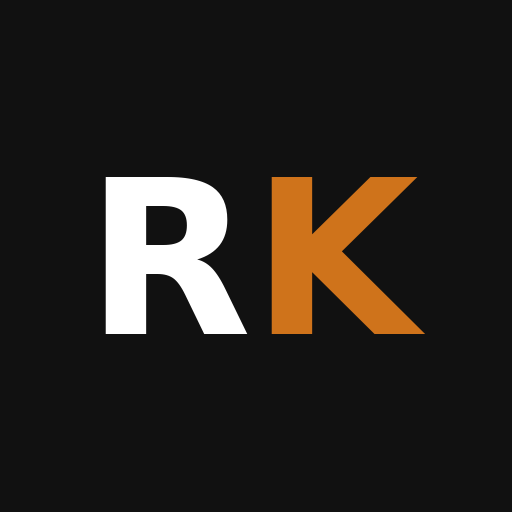
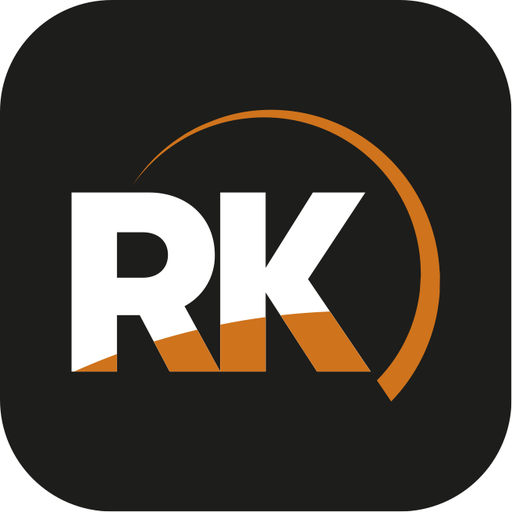
Todos los iconos de la app pasan al isotipo de marca
El icono de la app seguía siendo una RK plana que dibujé yo, sin el arco, así
que no cuadraba con el de las notificaciones. Ahora todos salen del isotipo del
logo de verdad, extraído del SVG de marca.

No vale un único archivo, porque cada destino tiene sus reglas:

- El maskable de Android pasa a ser un archivo propio, a sangre y con la marca
  al 60%: el sistema recorta un círculo del 80% del lado y le da la forma que
  quiera. Antes se reutilizaba ahí el icono redondeado, que dentro del círculo
  se veía como un recuadro flotando.
- El de iOS también va a sangre: iOS aplica su propia máscara, y sobre unas
  esquinas ya redondeadas salían cuatro sombras oscuras.
- El favicon pasa a ser el isotipo en vector. Era el logo completo, y a 16 px
  en una pestaña 'PALANCA FONTESTAD BY REALMARK INMOBILIARIA' es una mancha.
- La notificación vuelve a usar icon-192: una sola marca, un solo archivo, en
  vez de la misma imagen duplicada con dos nombres.

npm run iconos los regenera todos desde el logo. Comprobado cada variante donde
importa: el maskable entero dentro del círculo, y el badge legible a 24 px.

A quien ya tenga la app instalada le cambiará el icono del móvil.

diff --git a/vite.config.js b/vite.config.js
@@ -18,7 +18,7 @@ export default defineConfig({
          worker viejo no les llegaba a servir. Y el autoguardado ya cubre el
          riesgo original: la recarga dispara `pagehide`, que vuelca la ficha. */
       registerType: "autoUpdate",
-      includeAssets: ["icon-192.png", "icon-512.png", "apple-touch-icon.png"],
+      includeAssets: ["icon-192.png", "icon-512.png", "icon-maskable-512.png", "apple-touch-icon.png", "isotipo.svg"],
       manifest: {
         name: "Ficha de Captación · RK Palanca",
         short_name: "Captación",
@@ -33,7 +33,11 @@ export default defineConfig({
         icons: [
           { src: "icon-192.png", sizes: "192x192", type: "image/png" },
           { src: "icon-512.png", sizes: "512x512", type: "image/png" },
-          { src: "icon-512.png", sizes: "512x512", type: "image/png", purpose: "maskable" }
+          /* El maskable es un archivo aparte, a sangre y con la marca más
+             pequeña: Android recorta un círculo del 80% y le da la forma que
+             quiera. Reutilizar aquí el icono redondeado dejaba un recuadro
+             flotando dentro del círculo. */
+          { src: "icon-maskable-512.png", sizes: "512x512", type: "image/png", purpose: "maskable" }
         ]
       },
       workbox: {

diff --git a/index.html b/index.html
@@ -9,7 +9,9 @@
     <meta name="apple-mobile-web-app-capable" content="yes" />
     <meta name="apple-mobile-web-app-status-bar-style" content="default" />
     <meta name="apple-mobile-web-app-title" content="Captación" />
-    <link rel="icon" type="image/svg+xml" href="/logos/logo-vertical-tinta.svg" />
+    <!-- El isotipo, no el logo entero: a 16 px en una pestaña, el nombre
+         completo de la empresa es una mancha gris. -->
+    <link rel="icon" type="image/svg+xml" href="/isotipo.svg" />
     <link rel="apple-touch-icon" href="/icon-192.png" />
     <link rel="preconnect" href="https://fonts.googleapis.com" />
     <link rel="preconnect" href="https://fonts.gstatic.com" crossorigin />

diff --git a/public/push-sw.js b/public/push-sw.js
@@ -18,7 +18,7 @@ self.addEventListener("push", (evento) => {
       /* El isotipo de la empresa sobre la tinta de marca. El badge es lo que
          Android pinta en la barra de estado y lo convierte en silueta, así que
          va aparte: con el icono a color salía un cuadrado blanco macizo. */
-      icon: "/icono-notificacion-192.png",
+      icon: "/icon-192.png",
       badge: "/icono-badge-96.png",
       /* La etiqueta agrupa: dos avisos de la misma ficha se sustituyen en vez
          de apilarse en la pantalla de bloqueo. */
